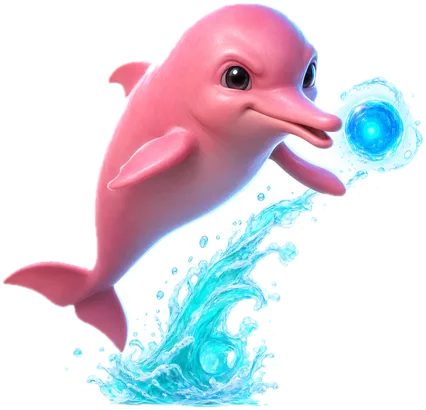
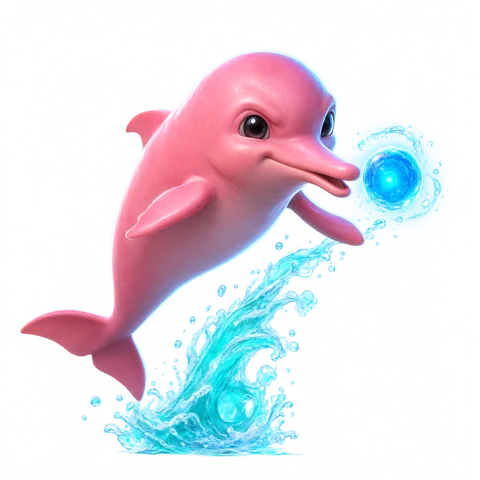
Arte: tira o clarão branco em volta do Pingoró (boto forma 1)
Claude-Session: https://claude.ai/code/session_013RvNQ276iefSMEv9scwqpR

diff --git a/scripts/recortar-sabimons.py b/scripts/recortar-sabimons.py
@@ -25,6 +25,27 @@ CONTORNO = {
 TIRAR_SOMBRA = {'004-1', '016-2'}
 # Desenhos com um clarão de luz no chão (entre as patas): tira o claro só no quarto de baixo da imagem.
 TIRAR_CHAO = {'016-2'}
+# Desenhos com brilho branco em volta (água, luz): o claro ligado ao fundo vira transparência suave.
+TIRAR_BRILHO = {'002-1'}
+
+def recortar_brilho(im: Image.Image) -> Image.Image:
+    """Tira o fundo e o clarão branco: quanto mais branco, mais transparente."""
+    a = np.asarray(im).astype(float)
+    h, w, _ = a.shape
+    mn = a.min(axis=2)
+    limite = 170
+    claro = mn > limite
+    fundo = np.zeros((h, w), bool)
+    fila = deque([(y, x) for y in range(h) for x in (0, w - 1)] + [(y, x) for x in range(w) for y in (0, h - 1)])
+    while fila:
+        y, x = fila.popleft()
+        if fundo[y, x] or not claro[y, x]:
+            continue
+        fundo[y, x] = True
+        fila.extend(p for p in ((y - 1, x), (y + 1, x), (y, x - 1), (y, x + 1)) if 0 <= p[0] < h and 0 <= p[1] < w)
+    alpha = np.where(fundo, np.clip((255 - mn) / (255 - limite), 0, 1), 1.0)[..., None]
+    rgb = (a - 255 * (1 - alpha)) / np.maximum(alpha, 0.01)
+    return Image.fromarray(np.dstack([np.clip(rgb, 0, 255), alpha[..., 0] * 255]).astype('uint8'), 'RGBA')
 
 def contorno(img: Image.Image, cor) -> Image.Image:
     """Desenha uma luz da cor dada em volta do bicho, por trás dele."""
@@ -42,6 +63,10 @@ def contorno(img: Image.Image, cor) -> Image.Image:
 
 def recortar(src: Path, dst: Path):
     im = Image.open(src).convert('RGB').resize((TAMANHO, TAMANHO), Image.LANCZOS)
+    if src.stem in TIRAR_BRILHO:
+        out = recortar_brilho(im)
+        out.crop(out.getbbox()).save(dst, 'WEBP', quality=82)
+        return
     a = np.asarray(im).astype(int)
     h, w, _ = a.shape
     limite = 185 if src.stem in TIRAR_SOMBRA else 228

diff --git a/docs/PROJETO.md b/docs/PROJETO.md
@@ -161,6 +161,8 @@ Ainda pendente: `sabidex.com` não está ligado na Cloudflare; Ciências e Geogr
 
 Escreva aqui cada mudança nova (data, o que mudou, quem decidiu).
 
+- **05/11/2026** · Pingoró (boto, forma 1): o recorte tirou o clarão branco em volta da barriga e da bolha d'água (`TIRAR_BRILHO` em `scripts/recortar-sabimons.py`) (Lucas).
+
 - **04/11/2026** · "Entrar na minha conta" ficou mais fácil: o aparelho lembra o código da turma e a criança toca no nome dela numa lista, em vez de digitar o apelido; depois só o PIN (Lucas).
 
 - **04/11/2026** · Chat da turma supervisionado, "Estudando agora" e vários administradores por turma (Lucas).
